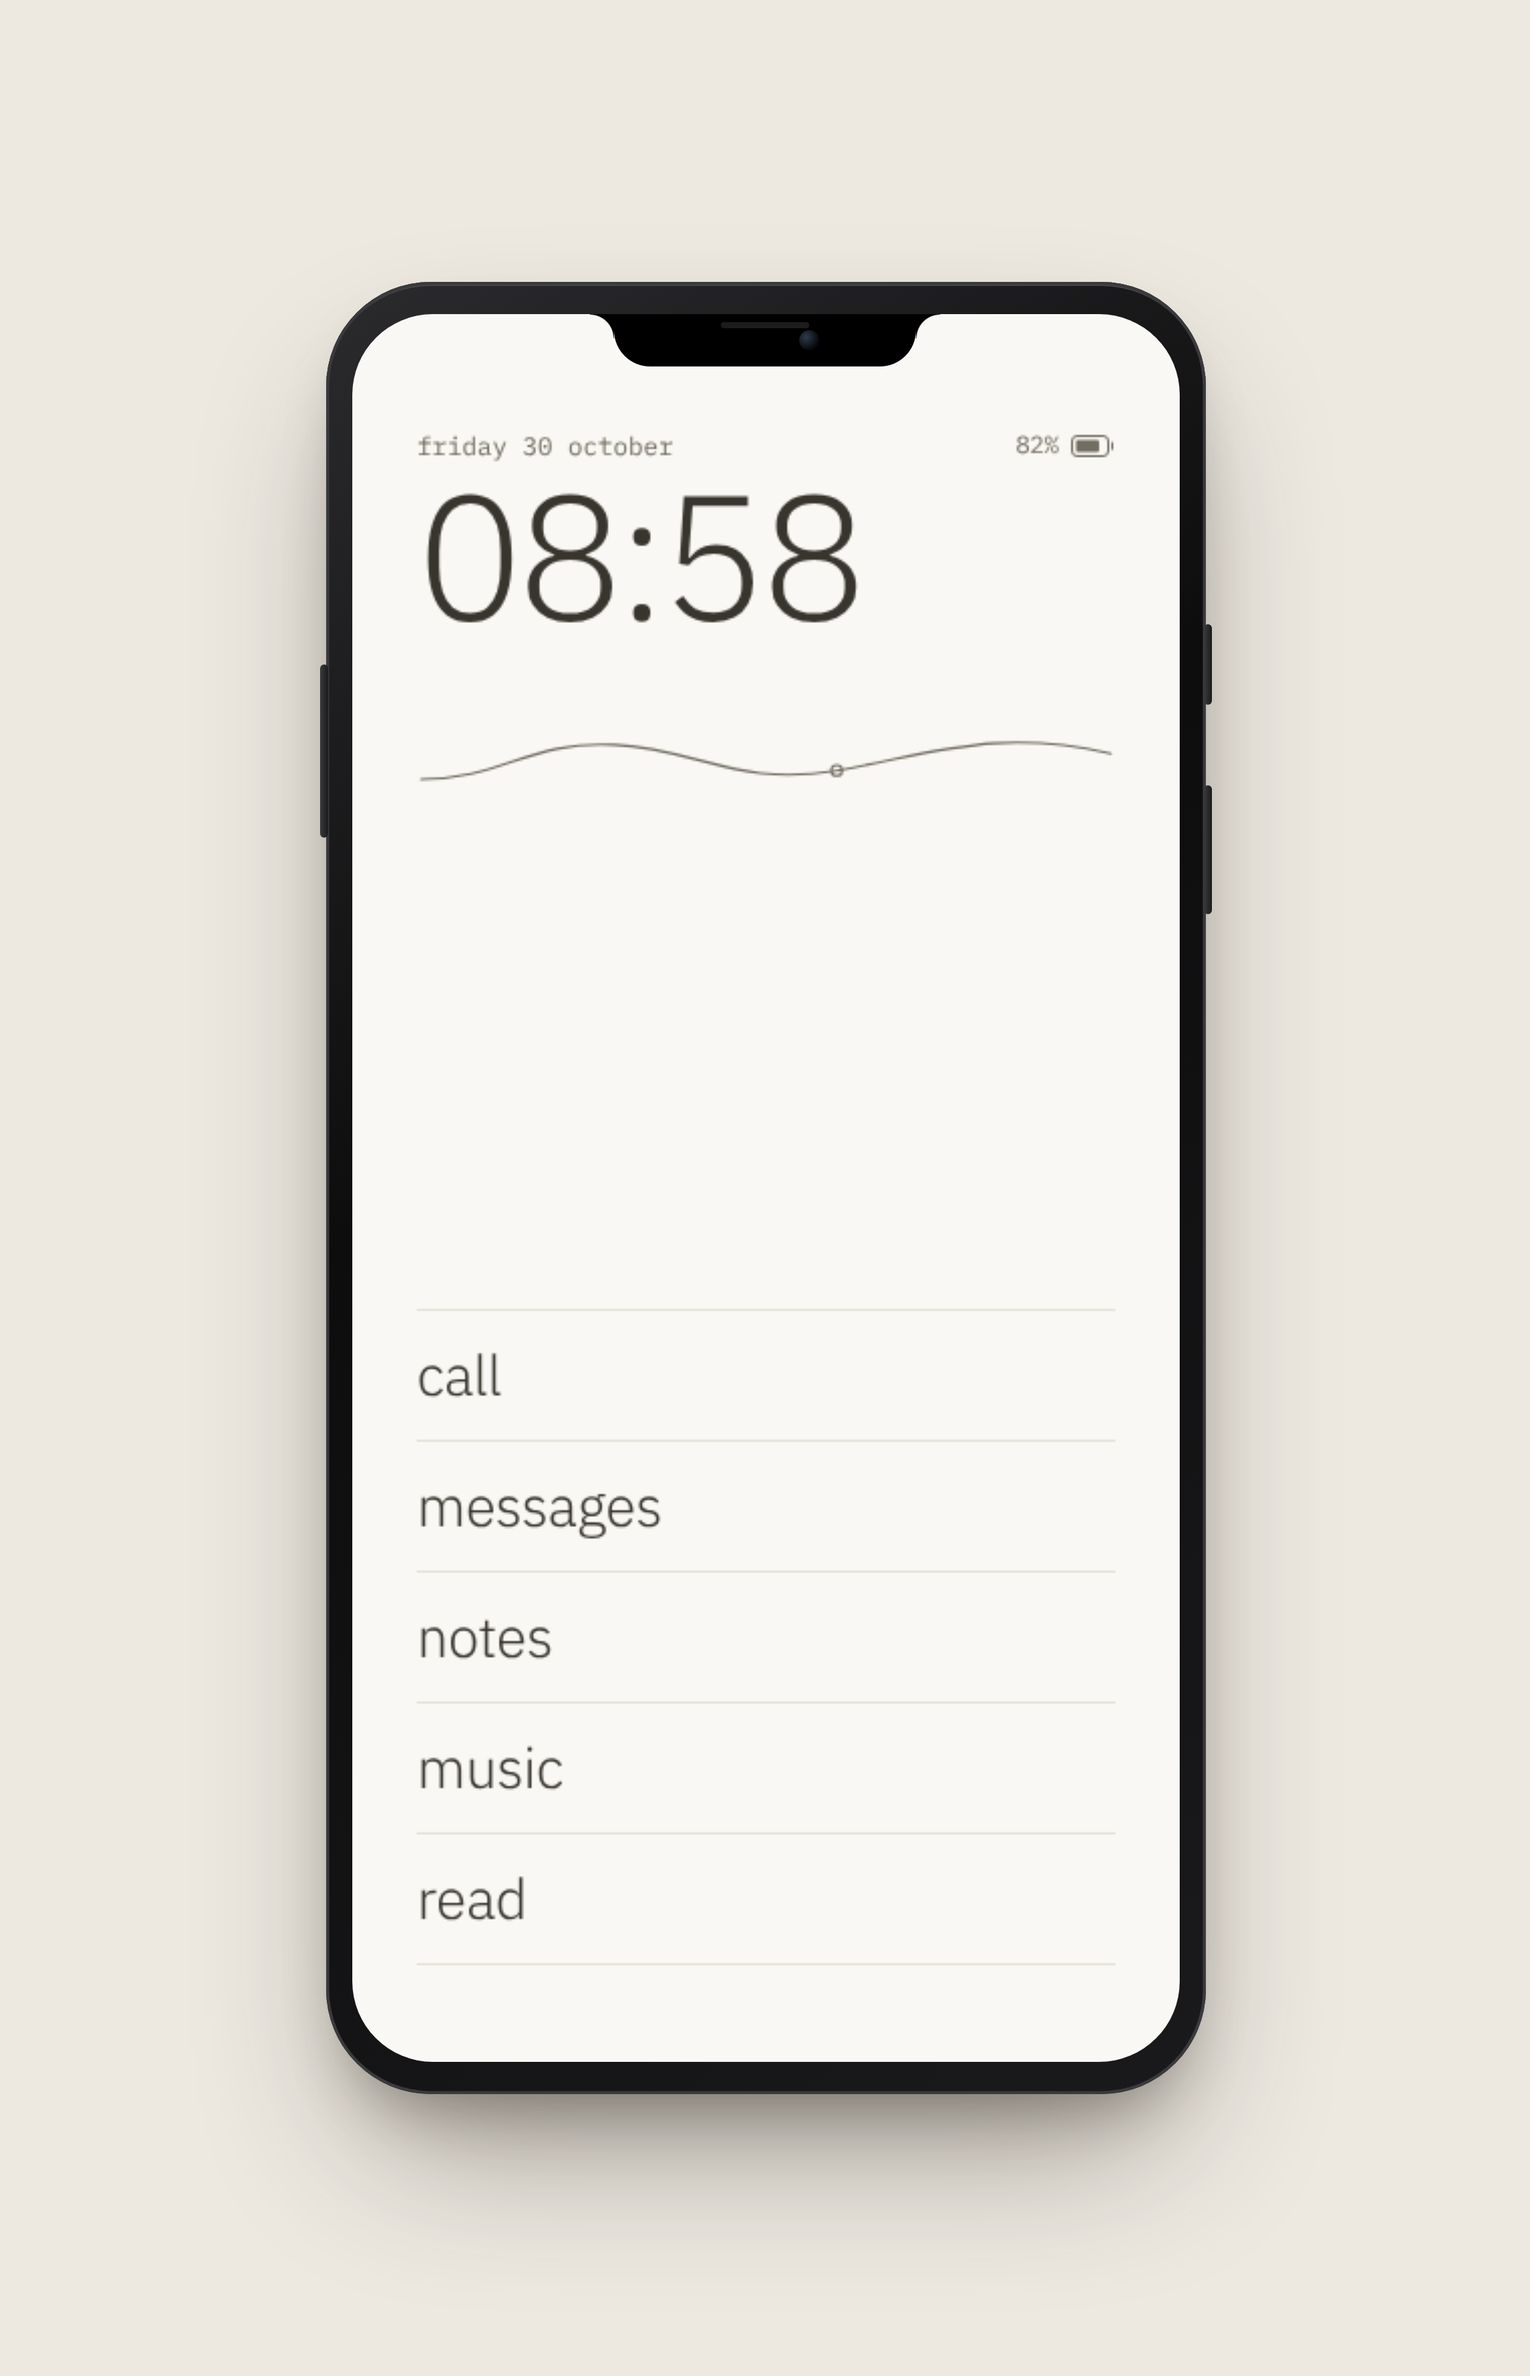
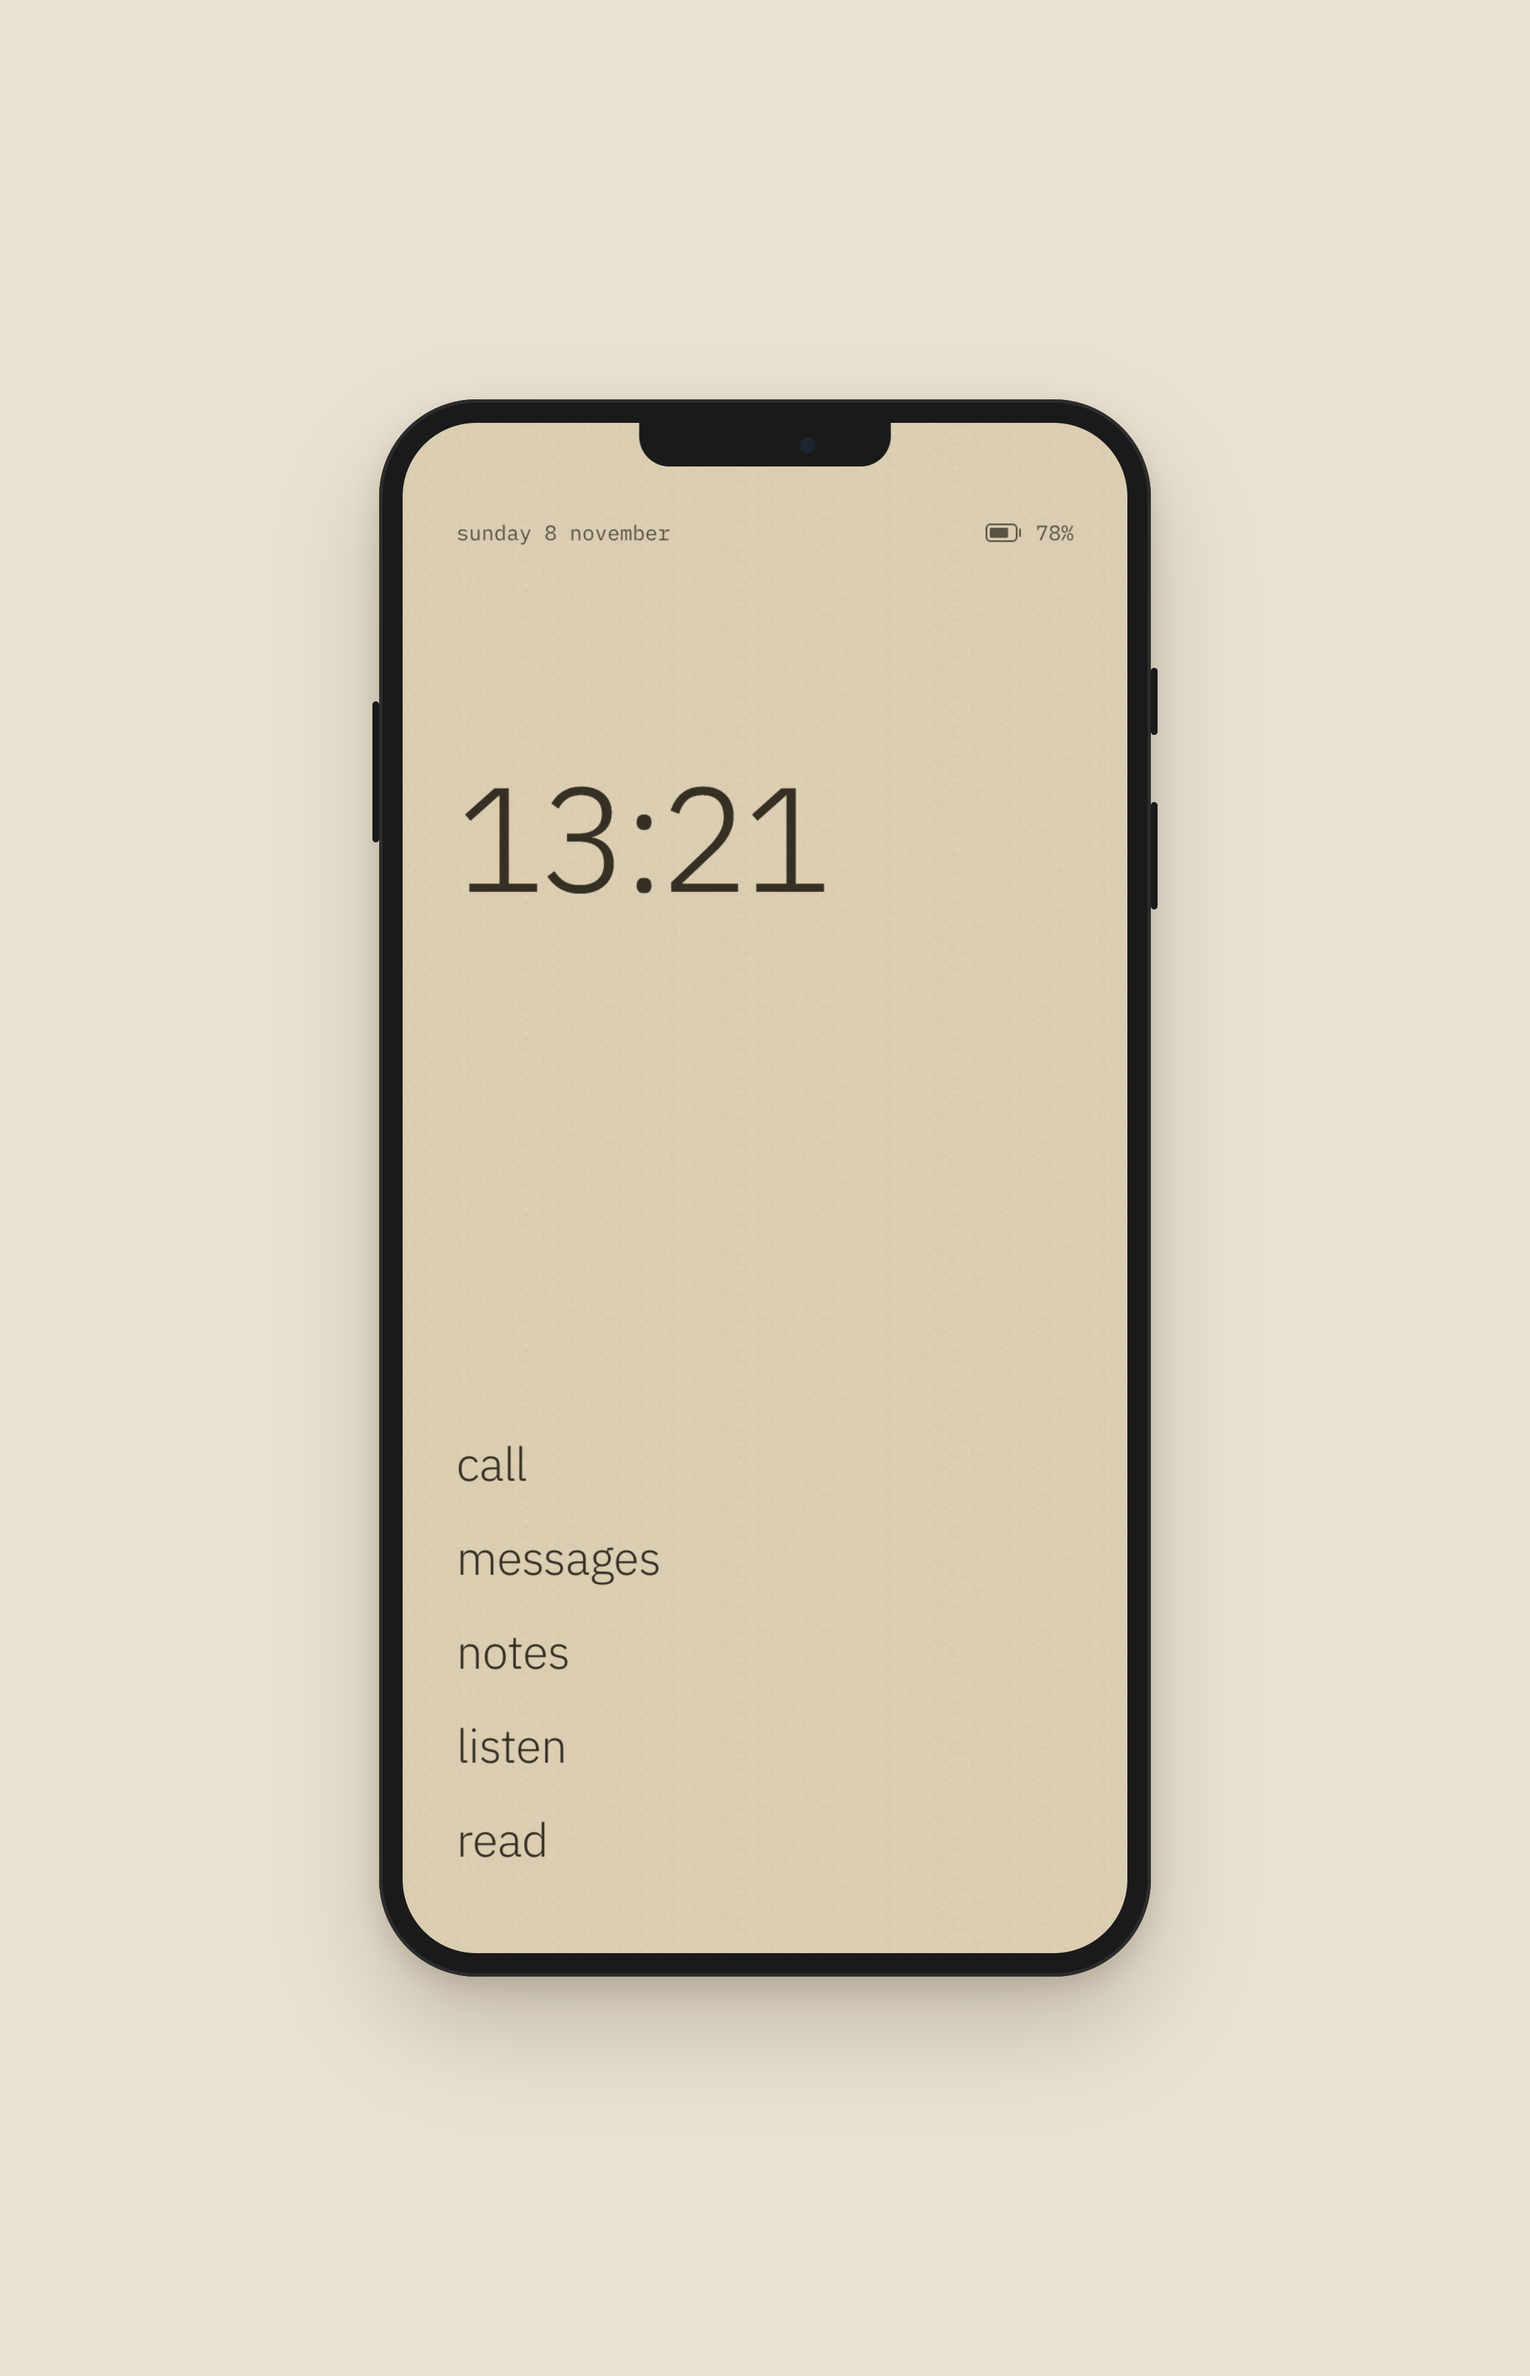
docs: update home screenshot

diff --git a/README.md b/README.md
@@ -4,11 +4,11 @@
 
 # The Rebel Phone Project
 
-A minimal phone shell: time and day, and five apps — call, messages, notes, music, read.
+A minimal phone shell: time and day, and five apps — call, messages, notes, listen, read.
 Visual language from nbaglivo.dev: warm paper, warm ink, IBM Plex Sans Light + Plex Mono, thin line drawings.
 
 <p align="center">
-  <img src="docs/images/oneplus6-home.png" alt="Home screen on a OnePlus 6: date, battery, large clock, a thin wave line, and the five apps listed below" width="360">
+  <img src="docs/images/oneplus6-home.png" alt="Home screen on a OnePlus 6: date, battery, large clock on kraft paper, and the five apps listed below" width="360">
 </p>
 
 React 19 + Vite + TypeScript. No router or UI library. Fonts are self-hosted (`@fontsource`), so it runs offline.
